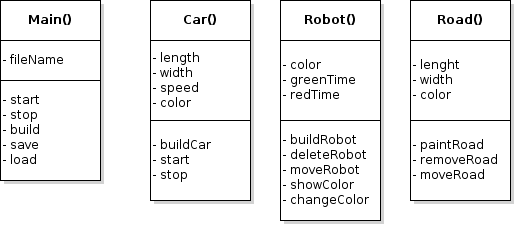
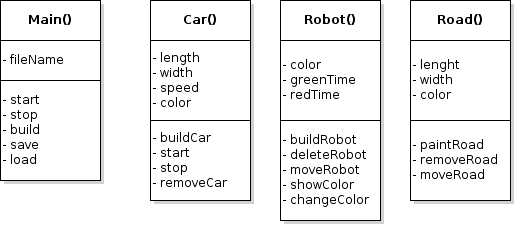
Updated UML car class with removeCar method Updated new .png of UML class

Changed region(s): [[0.3107, 0.5911, 0.435, 0.84]]

diff --git a/design/trafficSimulator_UML.class.violet.html b/design/trafficSimulator_UML.class.violet.html
@@ -70,7 +70,8 @@
       <methods id="18" justification="0" size="4" underlined="false">
         <text>- buildCar
 - start
-- stop</text>
+- stop
+- removeCar</text>
       </methods>
     </ClassNode>
     <ClassNode id="19">
@@ -124,137 +125,137 @@
 </ClassDiagramGraph>]]></SCRIPT>
 	<BR />
 	<BR />
[4 lines of base64/hex data omitted]
-QVRABUhA3UECFEQFVIAEVAokQEFUQAVIgEECFEQFVIAEGCRAQVRABUiAQQIURAVUgAQYJEBBVEAF
[18 lines of base64/hex data omitted]
-gASQAAXxQaiACpAAEqAgKqACKkACSICCqIAKqAAJIAEKogIqoAIkgAQoiAqogAqQABKgICqgAipA
-AkiAgqiACpCAuoMEKIgKqAAJqDtIgIKogAqQAIMEKIgKqAAJMEiAgqiACpAAgwQoiAqoAAkwSICC
[1 lines of base64/hex data omitted]
-SIBBAhREBVSABBgkQEFUQAVIgEECFEQFVIAEGCRAQVRABUiAQQIURAVUgAQYJEBBVEAFSIBBAhRE
[102 lines of base64/hex data omitted]
-EkSrriABJMAwSAAJIAEkwDBIAAkgASTAMEgACSABJMAwSAAJIAEkwDBIAAkwSIBhkAASYJAAwyAB
[1 lines of base64/hex data omitted]
-qDfHYZAAwyABJMAgAYZBAkiAQQIMwzCsBPtfp4pNsdrQakkAAAAASUVORK5C" />
[4 lines of base64/hex data omitted]
+qIAKkIBjBwlQEBVQARJwUCABCqICKkACDBKgICqgAiTAIAEKogIqQAIMEqAgKqACJMAgAQqiAipA
[21 lines of base64/hex data omitted]
+CqgACTBIgIKogAqQAIMEKIgKqAAJMEiAgqiACpAAgwQoiAqoAAkwSICCqIAKkACDBCiICqgACTBI
[102 lines of base64/hex data omitted]
+CSABJMAwSAAJIAEkwDBIAAkwSIBhkAASYJAAwyABJMAgAYZBAkiAQQIMgwSQAIMEGAYJIAEGCTAM
[1 lines of base64/hex data omitted]
+Up53WamsbjUAAAAASUVORK5C" />
 </BODY>
 </HTML>
